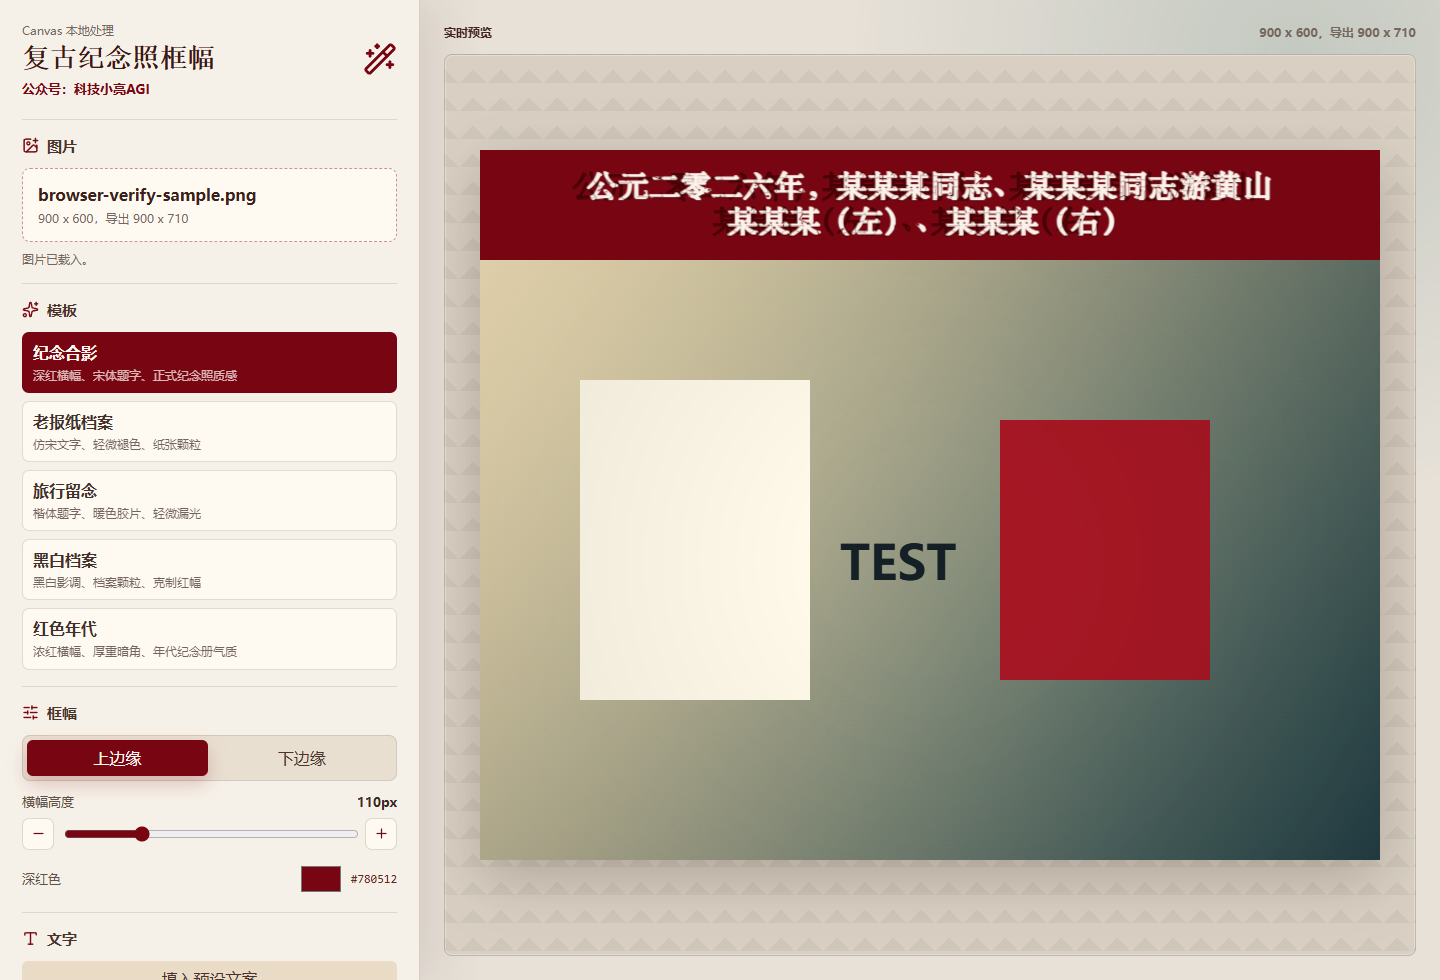
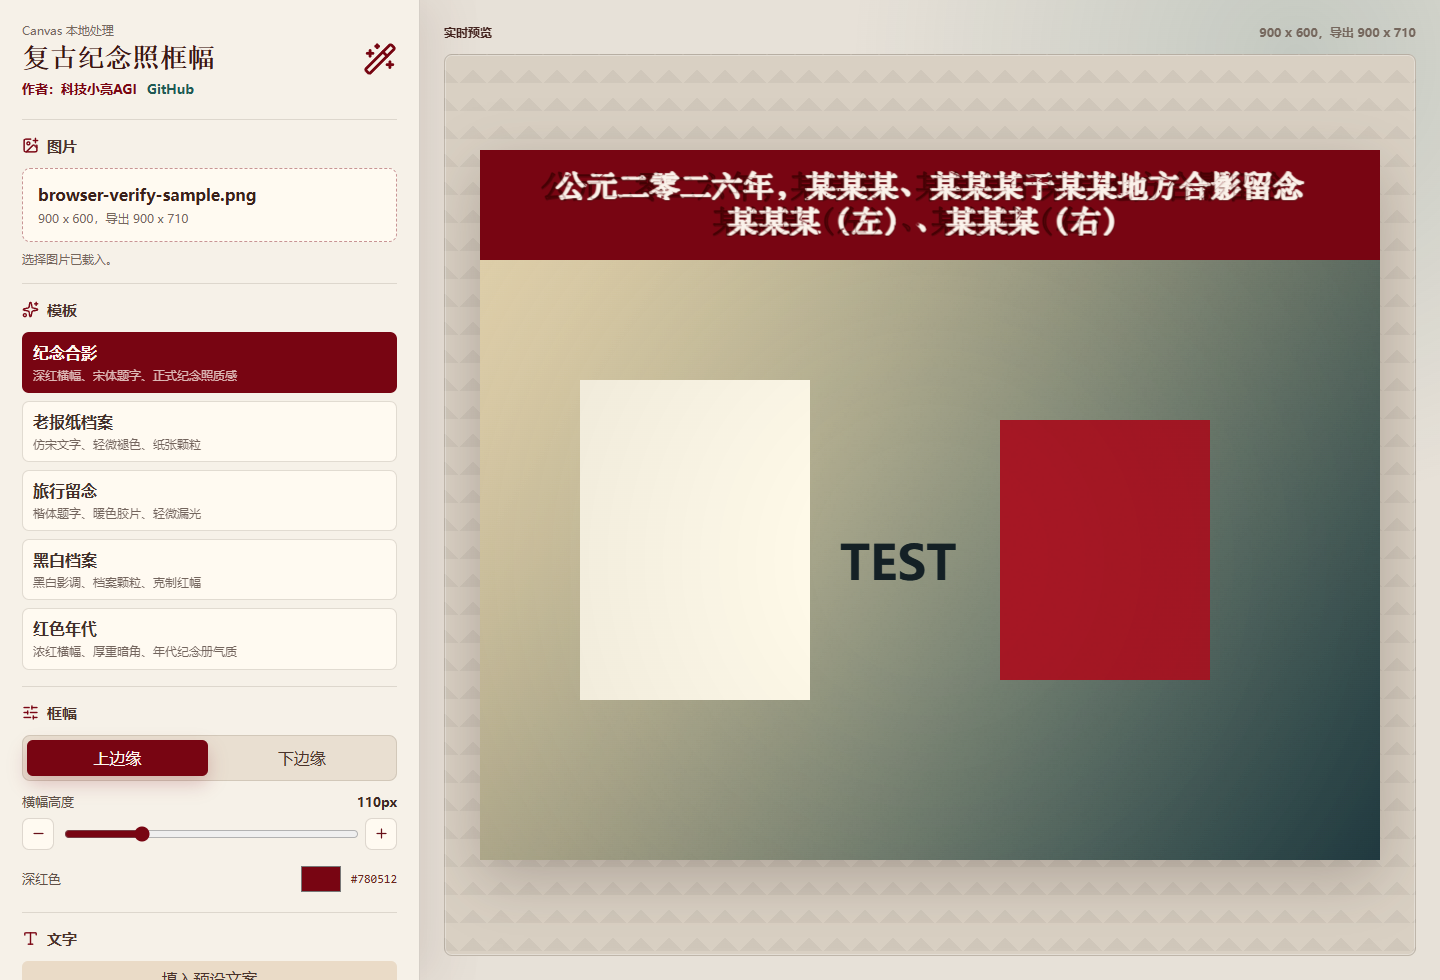
Refine header and image upload UX

Changed region(s): [[0.375, 0.1531, 0.9062, 0.2143], [0.0312, 0.0612, 0.125, 0.1224], [0.0, 0.2449, 0.0625, 0.2755]]

diff --git a/src/App.tsx b/src/App.tsx
@@ -1,6 +1,7 @@
 import { useCallback, useEffect, useMemo, useRef, useState } from "react";
 import ControlPanel from "./components/ControlPanel";
 import PreviewCanvas from "./components/PreviewCanvas";
+import { getFirstImageFile } from "./lib/imageFiles";
 import { exportCanvas, getPreviewScale, renderCompositeCanvas } from "./lib/renderCanvas";
 import { initialExportSettings, initialRenderSettings } from "./lib/presets";
 import { applyTemplateToSettings } from "./lib/templates";
@@ -44,8 +45,11 @@ export default function App() {
   }, [image]);
 
   const handleUpload = useCallback(
-    (file: File | null) => {
-      if (!file) return;
+    (file: File | null, source: "choose" | "drop" | "paste" = "choose") => {
+      if (!file) {
+        if (source !== "choose") setStatus("没有找到可上传的图片。");
+        return;
+      }
       if (!file.type.startsWith("image/")) {
         setStatus("请选择图片文件。");
         return;
@@ -60,7 +64,12 @@ export default function App() {
         setImageName(file.name);
 
         const pixels = nextImage.naturalWidth * nextImage.naturalHeight;
-        setStatus(pixels > 18_000_000 ? "图片较大，滤镜预览可能需要一点时间。" : "图片已载入。");
+        const sourceLabel = source === "drop" ? "拖拽" : source === "paste" ? "粘贴" : "选择";
+        setStatus(
+          pixels > 18_000_000
+            ? `${sourceLabel}图片已载入，图片较大，滤镜预览可能需要一点时间。`
+            : `${sourceLabel}图片已载入。`
+        );
       };
       nextImage.onerror = () => {
         URL.revokeObjectURL(url);
@@ -70,6 +79,25 @@ export default function App() {
     },
     [objectUrl]
   );
+
+  const handleUploadFiles = useCallback(
+    (files: Iterable<File> | null | undefined, source: "choose" | "drop" | "paste" = "choose") => {
+      handleUpload(getFirstImageFile(files), source);
+    },
+    [handleUpload]
+  );
+
+  useEffect(() => {
+    const handlePaste = (event: ClipboardEvent) => {
+      const file = getFirstImageFile(event.clipboardData?.files);
+      if (!file) return;
+      event.preventDefault();
+      handleUpload(file, "paste");
+    };
+
+    window.addEventListener("paste", handlePaste);
+    return () => window.removeEventListener("paste", handlePaste);
+  }, [handleUpload]);
 
   const handleRendered = useCallback((canvas: HTMLCanvasElement | null) => {
     previewCanvasRef.current = canvas;
@@ -143,6 +171,7 @@ export default function App() {
         canExport={Boolean(image)}
         activeTemplateId={activeTemplateId}
         onUpload={handleUpload}
+        onUploadFiles={handleUploadFiles}
         onSettingsChange={setSettings}
         onExportSettingsChange={setExportSettings}
         onTemplateChange={handleTemplateChange}

diff --git a/src/components/ControlPanel.tsx b/src/components/ControlPanel.tsx
@@ -22,6 +22,7 @@ interface ControlPanelProps {
   canExport: boolean;
   activeTemplateId: EditorTemplateId;
   onUpload: (file: File | null) => void;
+  onUploadFiles: (files: Iterable<File> | null | undefined, source: "choose" | "drop" | "paste") => void;
   onSettingsChange: (settings: RenderSettings) => void;
   onExportSettingsChange: (settings: ExportSettings) => void;
   onTemplateChange: (templateId: EditorTemplateId) => void;
@@ -38,6 +39,7 @@ export default function ControlPanel({
   canExport,
   activeTemplateId,
   onUpload,
+  onUploadFiles,
   onSettingsChange,
   onExportSettingsChange,
   onTemplateChange,
@@ -54,7 +56,16 @@ export default function ControlPanel({
         <div>
           <span className="eyebrow">Canvas 本地处理</span>
           <h1>复古纪念照框幅</h1>
-          <p className="author-line">公众号：科技小亮AGI</p>
+          <p className="author-line">
+            作者：科技小亮AGI
+            <a
+              href="https://github.com/kejixiaoliang/retro-photo-captioner"
+              target="_blank"
+              rel="noreferrer"
+            >
+              GitHub
+            </a>
+          </p>
         </div>
         <Wand2 aria-hidden="true" />
       </header>
@@ -64,14 +75,24 @@ export default function ControlPanel({
           <ImagePlus aria-hidden="true" />
           图片
         </h2>
-        <label className="file-drop">
+        <label
+          className="file-drop"
+          onDragOver={(event) => {
+            event.preventDefault();
+            event.dataTransfer.dropEffect = "copy";
+          }}
+          onDrop={(event) => {
+            event.preventDefault();
+            onUploadFiles(event.dataTransfer.files, "drop");
+          }}
+        >
           <input
             type="file"
             accept="image/png,image/jpeg,image/webp,image/bmp"
             onChange={(event) => onUpload(event.target.files?.[0] ?? null)}
           />
-          <span>{imageName ?? "选择本地图片"}</span>
-          <small>{imageSize ?? "PNG / JPG / WebP / BMP"}</small>
+          <span>{imageName ?? "选择、拖拽或粘贴图片"}</span>
+          <small>{imageSize ?? "PNG / JPG / WebP / BMP，支持 Ctrl+V 粘贴"}</small>
         </label>
         {status && <p className="status-text">{status}</p>}
       </section>

diff --git a/src/lib/imageFiles.test.ts b/src/lib/imageFiles.test.ts
@@ -1,0 +1,18 @@
+import { describe, expect, it } from "vitest";
+import { getFirstImageFile } from "./imageFiles";
+
+function makeFile(name: string, type: string) {
+  return new File(["sample"], name, { type });
+}
+
+describe("image file extraction", () => {
+  it("uses the first image from a file list", () => {
+    const file = makeFile("photo.png", "image/png");
+
+    expect(getFirstImageFile([makeFile("notes.txt", "text/plain"), file])).toBe(file);
+  });
+
+  it("returns null when no image file exists", () => {
+    expect(getFirstImageFile([makeFile("notes.txt", "text/plain")])).toBeNull();
+  });
+});

diff --git a/src/lib/presets.ts b/src/lib/presets.ts
@@ -1,7 +1,7 @@
 import type { ExportSettings, FilterPresetMeta, FontPreset, RenderSettings } from "./types";
 
 export const defaultText =
-  "公元二零二六年，某某某同志、某某某同志游黄山\n某某某（左）、某某某（右）";
+  "公元二零二六年，某某某、某某某于某某地方合影留念\n某某某（左）、某某某（右）";
 
 export const fontPresets: FontPreset[] = [
   {

diff --git a/src/lib/presets.test.ts b/src/lib/presets.test.ts
@@ -1,0 +1,10 @@
+import { describe, expect, it } from "vitest";
+import { defaultText } from "./presets";
+
+describe("text presets", () => {
+  it("uses the requested commemorative caption copy", () => {
+    expect(defaultText).toBe(
+      "公元二零二六年，某某某、某某某于某某地方合影留念\n某某某（左）、某某某（右）"
+    );
+  });
+});

diff --git a/src/styles/app.css b/src/styles/app.css
@@ -68,10 +68,22 @@ button {
 }
 
 .author-line {
+  display: flex;
+  align-items: center;
+  gap: 10px;
   margin-top: 7px;
   color: #7a0714;
   font-size: 13px;
   font-weight: 700;
+}
+
+.author-line a {
+  color: #1f5a54;
+  text-decoration: none;
+}
+
+.author-line a:hover {
+  text-decoration: underline;
 }
 
 h1,

diff --git a/src/lib/imageFiles.ts b/src/lib/imageFiles.ts
@@ -1,0 +1,9 @@
+export function getFirstImageFile(files: Iterable<File> | null | undefined): File | null {
+  if (!files) return null;
+
+  for (const file of files) {
+    if (file.type.startsWith("image/")) return file;
+  }
+
+  return null;
+}
